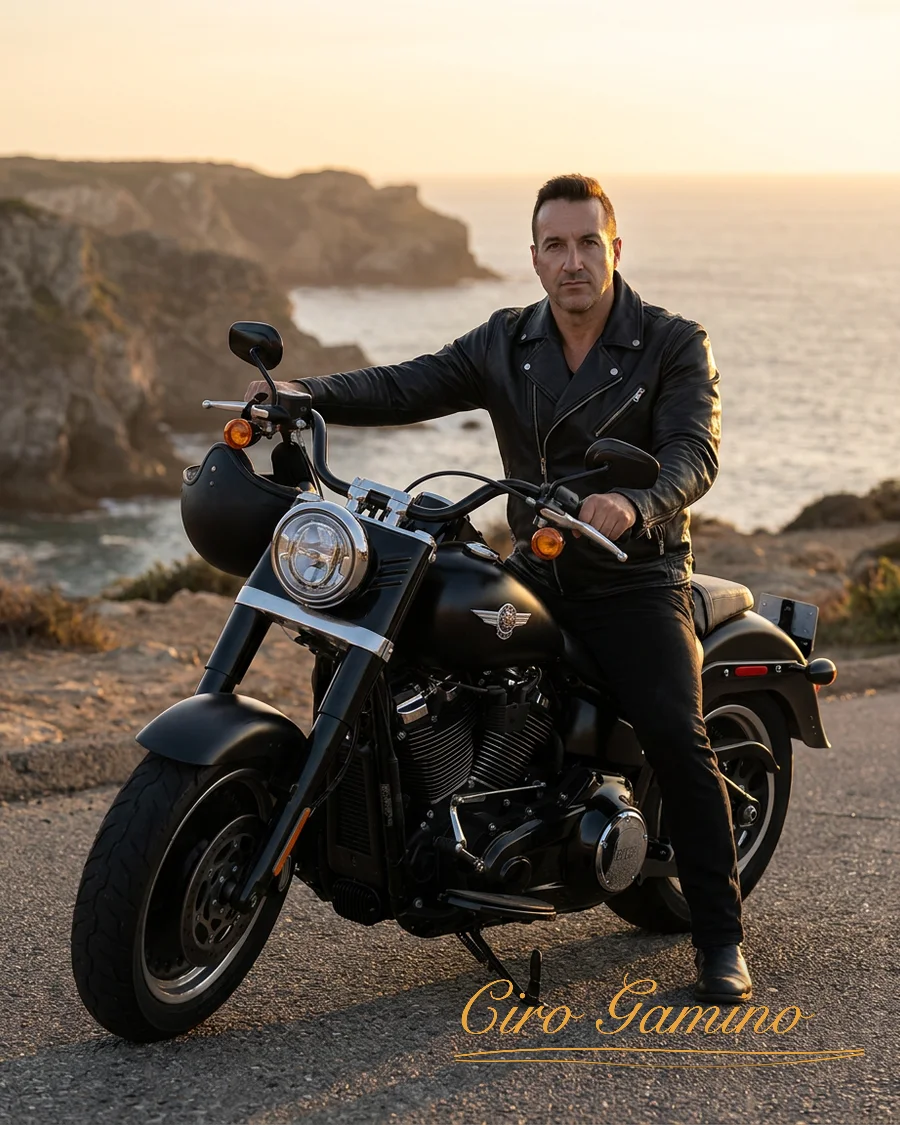
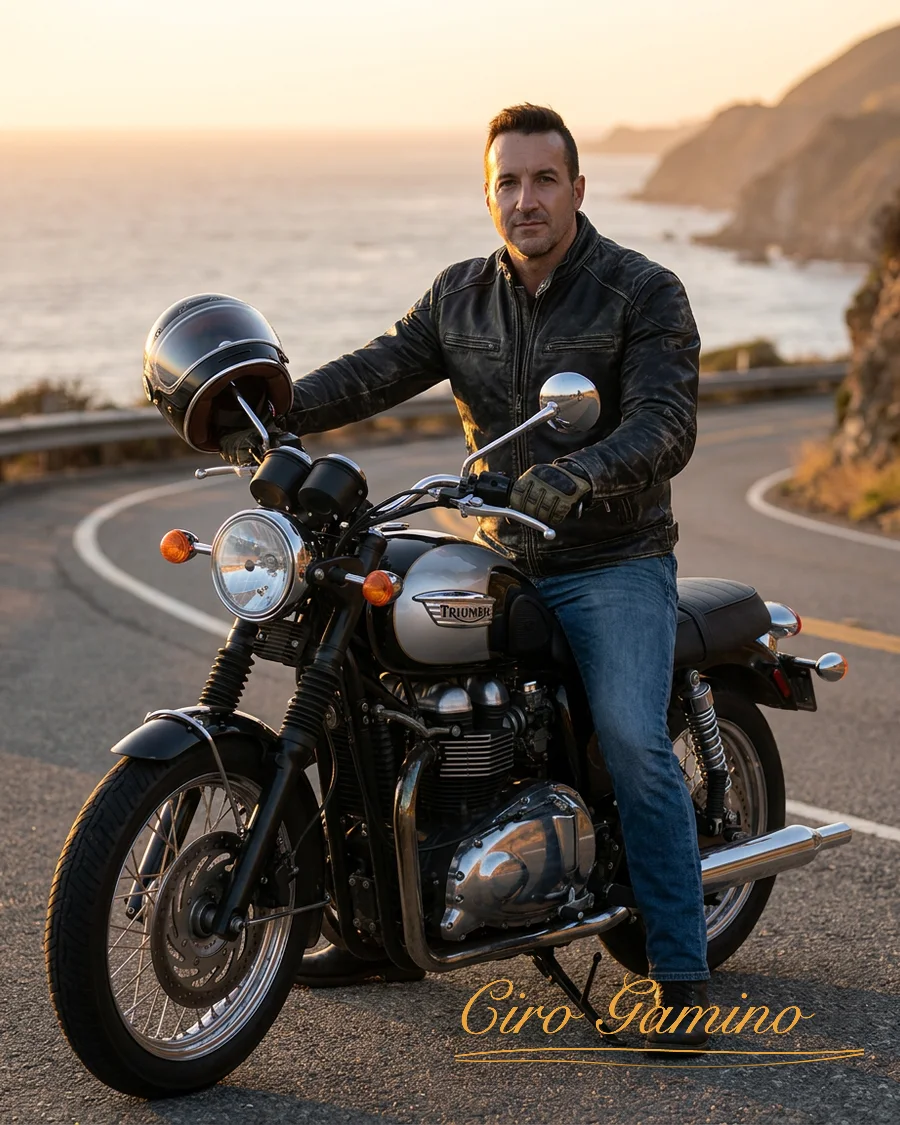
revert The ride to the original round-2 shot Ciro prefers (Harley redo benched)

diff --git a/index.html b/index.html
@@ -318,7 +318,7 @@ footer{position:relative;z-index:5;border-top:1px solid var(--line);padding:40px
     <div class="pcard rv" data-tilt><img src="img/ciro-x04.webp?v=1" alt="Ciro Gamino — The gym, editorial portrait" width="900" height="1125" loading="lazy" decoding="async"><div class="cap"><b>The gym</b><span>WRAPS ON · NO DAYS OFF</span></div></div>
     <div class="pcard rv" data-tilt><img src="img/ciro-x05.webp?v=1" alt="Ciro Gamino — The boardroom, editorial portrait" width="900" height="1125" loading="lazy" decoding="async"><div class="cap"><b>The boardroom</b><span>NIGHT GLASS · CITY BELOW</span></div></div>
     <div class="pcard rv" data-tilt><img src="img/ciro-x06.webp?v=3" alt="Ciro Gamino — The vineyard, editorial portrait" width="900" height="1125" loading="lazy" decoding="async"><div class="cap"><b>The vineyard</b><span>GOLDEN ROWS · RED WINE</span></div></div>
-    <div class="pcard rv" data-tilt><img src="img/ciro-x07.webp?v=3" alt="Ciro Gamino — The ride, editorial portrait" width="900" height="1125" loading="lazy" decoding="async"><div class="cap"><b>The ride</b><span>COAST ROAD · VINTAGE STEEL</span></div></div>
+    <div class="pcard rv" data-tilt><img src="img/ciro-x07.webp?v=4" alt="Ciro Gamino — The ride, editorial portrait" width="900" height="1125" loading="lazy" decoding="async"><div class="cap"><b>The ride</b><span>COAST ROAD · VINTAGE STEEL</span></div></div>
     <div class="pcard rv" data-tilt><img src="img/ciro-x08.webp?v=1" alt="Ciro Gamino — The chalet, editorial portrait" width="900" height="1125" loading="lazy" decoding="async"><div class="cap"><b>The chalet</b><span>SNOW LINE · FIRELIGHT</span></div></div>
     <div class="pcard rv" data-tilt><img src="img/ciro-x09.webp?v=1" alt="Ciro Gamino — The studio, editorial portrait" width="900" height="1125" loading="lazy" decoding="async"><div class="cap"><b>The studio</b><span>BEHIND THE GLASS · WARM NEON</span></div></div>
     <div class="pcard rv" data-tilt><img src="img/ciro-x10.webp?v=1" alt="Ciro Gamino — The study, editorial portrait" width="900" height="1125" loading="lazy" decoding="async"><div class="cap"><b>The study</b><span>WOOD PANEL · AMBER LAMP</span></div></div>
